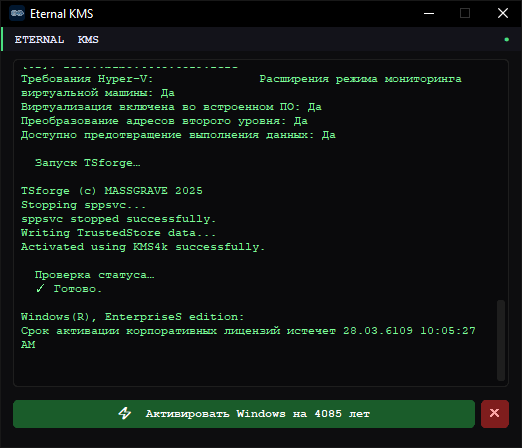
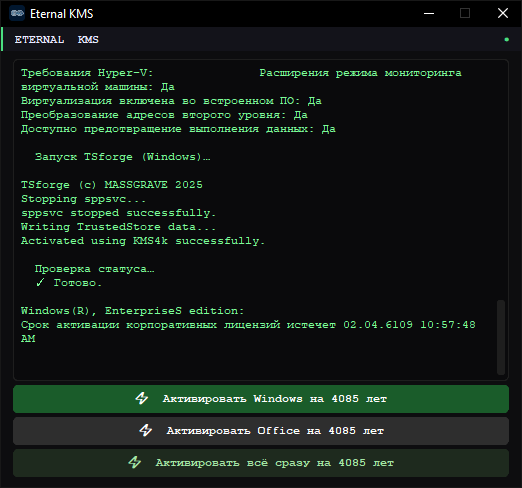
Add files via upload

Changed region(s): [[0.0, 0.125, 0.9808, 1.0], [0.0, 0.0, 1.0, 0.0938]]

diff --git a/main.py b/main.py
@@ -22,7 +22,7 @@ class WindowsActivator(ctk.CTk):
         super().__init__()
 
         self.title("Eternal KMS")
-        self.geometry("520x420")
+        self.geometry("520x460")
         self.resizable(False, False)
         self.configure(fg_color="#0d0d0f")
 
@@ -87,9 +87,8 @@ class WindowsActivator(ctk.CTk):
         self.console_box.pack(fill="both", expand=True)
         self.console_box.configure(state="disabled")
 
-        bottom = ctk.CTkFrame(self, fg_color="#0d0d0f", corner_radius=0, height=46)
+        bottom = ctk.CTkFrame(self, fg_color="#0d0d0f", corner_radius=0)
         bottom.pack(fill="x", side="bottom", padx=12, pady=(0, 10))
-        bottom.pack_propagate(False)
 
         self.activate_btn = ctk.CTkButton(
             bottom,
@@ -103,22 +102,35 @@ class WindowsActivator(ctk.CTk):
             border_width=0,
             command=self._start_activation,
         )
-        self.activate_btn.pack(side="left", fill="x", expand=True, padx=(0, 6))
+        self.activate_btn.pack(fill="x", pady=(0, 4))
 
-        self.exit_btn = ctk.CTkButton(
+        self.office_btn = ctk.CTkButton(
             bottom,
-            text="✕",
-            font=("Courier New", 12, "bold"),
-            fg_color="#7f1d1d",
-            hover_color="#b91c1c",
-            text_color="#fca5a5",
+            text="⚡  Активировать Office на 4085 лет",
+            font=("Courier New", 11, "bold"),
+            fg_color="#2e2e2e",
+            hover_color="#3d3d3d",
+            text_color="#ffffff",
             corner_radius=6,
             height=28,
-            width=28,
             border_width=0,
-            command=self.destroy,
+            command=self._start_office_activation,
         )
-        self.exit_btn.pack(side="right")
+        self.office_btn.pack(fill="x", pady=(0, 4))
+
+        self.all_btn = ctk.CTkButton(
+            bottom,
+            text="⚡  Активировать всё сразу на 4085 лет",
+            font=("Courier New", 11, "bold"),
+            fg_color="#1e2a1e",
+            hover_color="#2a3d2a",
+            text_color="#a3e6a3",
+            corner_radius=6,
+            height=28,
+            border_width=0,
+            command=self._start_all_activation,
+        )
+        self.all_btn.pack(fill="x")
 
     def _animate_intro(self):
         lines = [
@@ -145,7 +157,17 @@ class WindowsActivator(ctk.CTk):
         self.stripe.configure(fg_color=dot_color)
         self.activate_btn.configure(fg_color=btn_color, hover_color=hover_color)
 
-    def run_command(self, cmd_string):
+    def _disable_all_buttons(self):
+        self.activate_btn.configure(state="disabled")
+        self.office_btn.configure(state="disabled")
+        self.all_btn.configure(state="disabled")
+
+    def _enable_all_buttons(self):
+        self.activate_btn.configure(state="normal")
+        self.office_btn.configure(state="normal")
+        self.all_btn.configure(state="normal")
+
+    def run_command(self, cmd_string, flag=None):
         def target():
             try:
                 process = subprocess.Popen(
@@ -161,10 +183,10 @@ class WindowsActivator(ctk.CTk):
                     self.after(0, self.log, line.strip())
                 process.wait()
 
-                if "kms4k" in cmd_string:
+                if flag in ("kms4k", "kms4o", "kms4all"):
                     self.after(0, self.log, "\n  Проверка статуса…")
                     self.run_command("cscript //nologo C:\\Windows\\System32\\slmgr.vbs /xpr")
-                    self.after(0, lambda: self.activate_btn.configure(state="normal"))
+                    self.after(0, self._enable_all_buttons)
                     self.after(0, lambda: self._set_status("done"))
                     self.after(0, self.log, "  ✓ Готово.\n")
 
@@ -174,11 +196,25 @@ class WindowsActivator(ctk.CTk):
         threading.Thread(target=target, daemon=True).start()
 
     def _start_activation(self):
-        self.activate_btn.configure(state="disabled")
+        self._disable_all_buttons()
         self._set_status("working")
-        self.log("\n  Запуск TSforge…\n")
+        self.log("\n  Запуск TSforge (Windows)…\n")
         cmd = f'"{self.tsforge_exe}" /kms4k'
-        self.run_command(cmd)
+        self.run_command(cmd, flag="kms4k")
+
+    def _start_office_activation(self):
+        self._disable_all_buttons()
+        self._set_status("working")
+        self.log("\n  Запуск TSforge (Office)…\n")
+        cmd = f'"{self.tsforge_exe}" /kms4o'
+        self.run_command(cmd, flag="kms4o")
+
+    def _start_all_activation(self):
+        self._disable_all_buttons()
+        self._set_status("working")
+        self.log("\n  Запуск TSforge (всё)…\n")
+        cmd = f'"{self.tsforge_exe}" /kms4all'
+        self.run_command(cmd, flag="kms4all")
 
 if __name__ == "__main__":
     app = WindowsActivator()
